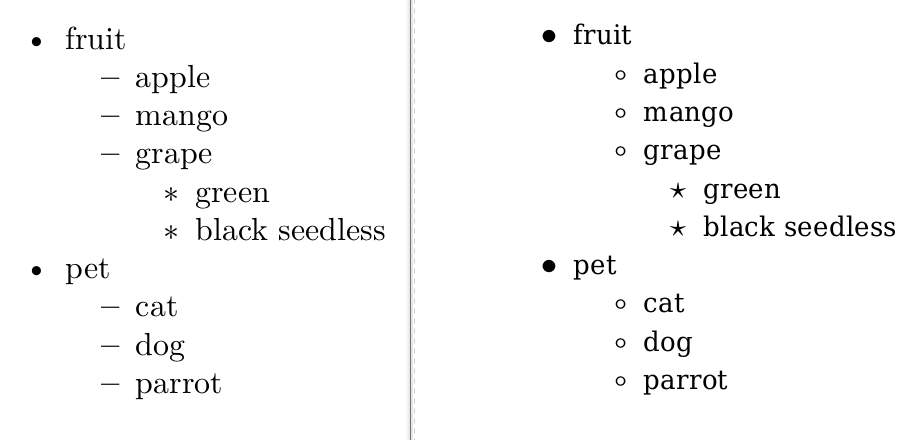
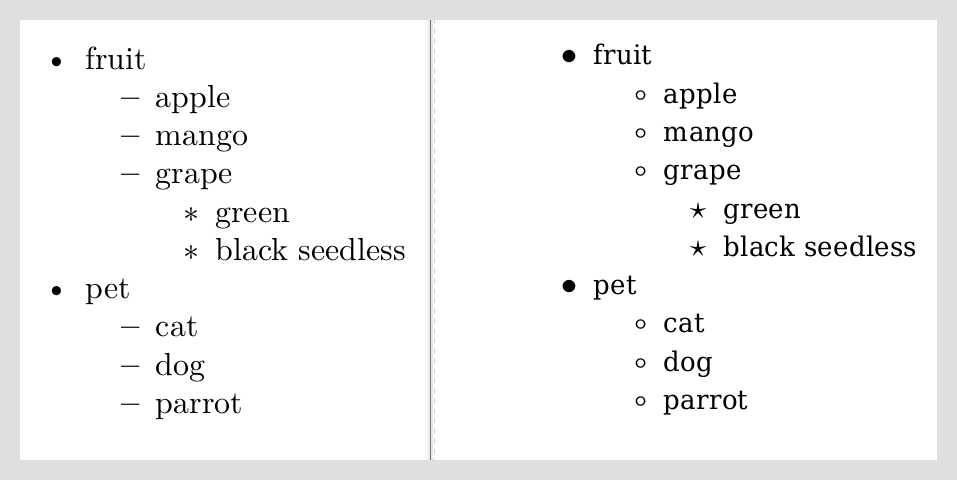
improved description and images

diff --git a/_posts/2019-03-11-customizing-pandoc.md b/_posts/2019-03-11-customizing-pandoc.md
@@ -11,7 +11,7 @@ tags:
 date: 2019-03-11T21:05:25
 ---
 
-Either you've already heard of `pandoc` or if you have searched online for `markdown` to `pdf` or similar, you are sure to come across `pandoc`. This tutorial will give you a basic idea of using `pandoc` to generate `pdf` from [GitHub style markdown](https://github.github.com/gfm/) file. The main purpose is to highlight what customizations I did to generate `pdf` for self-publishing my ebooks. It wasn't easy to arrive at the set-up I ended up with, so I hope this will be useful for those looking to use `pandoc` to generate `pdf`. Specifically aimed at technical books that has code snippets.
+Either you've already heard of `pandoc` or if you have searched online for `markdown` to `pdf` or similar, you are sure to come across `pandoc`. This tutorial will give you a basic idea of using `pandoc` to generate `pdf` from [GitHub style markdown](https://github.github.com/gfm/) file. The main purpose is to highlight what customizations I did to generate `pdf` for [self-publishing my ebooks](https://learnbyexample.github.io/books/). It wasn't easy to arrive at the set-up I ended up with, so I hope this will be useful for those looking to use `pandoc` to generate `pdf`. Specifically aimed at technical books that has code snippets.
 
 ## Installation
 
@@ -35,21 +35,21 @@ For more details and guide for other OS, refer to [pandoc: installation](https:/
 
 Once `pandoc` is working on your system, try generating a sample `pdf` without any customization.
 
-**Note**: See [learnbyexample.github.io repo](https://github.com/learnbyexample/learnbyexample.github.io/tree/master/files/pandoc_pdf) for all the input and output files referred in this tutorial
+![info](/images/info.svg) See [learnbyexample.github.io repo](https://github.com/learnbyexample/learnbyexample.github.io/tree/master/files/pandoc_pdf) for all the input and output files referred in this tutorial
 
 ```bash
 $ pandoc sample_1.md -f gfm -o sample_1.pdf
 ```
 
-Here `sample_1.md` is input markdown file and `-f` is used to specify that the input format is GitHub style markdown. The `-o` option specifies the output file type based on extension. The default output is probably good enough but has shortcomings like hyperlink and inline code are hard to distinguish, chapters are not separated, etc.
+Here `sample_1.md` is input markdown file and `-f` is used to specify that the input format is GitHub style markdown. The `-o` option specifies the output file type based on extension. The default output is probably good enough. But has shortcomings like hyperlinks and inline code are hard to distinguish, chapters are not separated, etc.
 
-`pandoc` has its own version of `markdown` as well with many useful extensions, see [pandoc: pandocs-markdown](https://pandoc.org/MANUAL.html#pandocs-markdown) for details.
+![info](/images/info.svg) `pandoc` has its own flavor of `markdown` with many useful extensions, see [pandoc: pandocs-markdown](https://pandoc.org/MANUAL.html#pandocs-markdown) for details. GitHub style markdown is recommended if you wish to use the same source (or with minor changes) in multiple places.
 
-**Note** that it is advised to use `markdown` headers in order without skipping - for example, `H1` for chapter heading and `H2` for chapter sub-section, etc is fine. `H1` for chapter heading and `H3` for sub-section is not. Using the former can give automatic index navigation on `pdf` readers.
+![info](/images/info.svg) It is advised to use `markdown` headers in order without skipping - for example, `H1` for chapter heading and `H2` for chapter sub-section, etc is fine. `H1` for chapter heading and `H3` for sub-section is not. Using the former can give automatic index navigation on `pdf` readers.
 
 On [Evince](https://wiki.gnome.org/Apps/Evince) reader, the index navigation for above sample looks like this:
 
-![Chapter Index](/images/pandoc_pdf/chapter_index.png)
+![Chapter Index]({{ '/images/pandoc_pdf/chapter_index.png' | absolute_url }}){: .align-center}
 
 ## Chapter breaks
 
@@ -70,7 +70,7 @@ This can be added using `-H` option. From `pandoc` manual,
 >files in the header.  They will be included in the  order  specified.
 >Implies --standalone.
 
-So, the `pandoc` invocation now looks like:
+The `pandoc` invocation now looks like:
 
 ```bash
 $ pandoc sample_1.md -f gfm -H chapter_break.tex -o sample_1_chapter_break.pdf
@@ -110,20 +110,24 @@ pandoc "$1" \
 
 Using `xelatex` as the `pdf-engine` allows to use any font installed in the system. One reason I chose `DejaVu` was because it supported **Greek** and other Unicode characters that were causing error with other fonts. See [tex.stackexchange: Using XeLaTeX instead of pdfLaTeX](https://tex.stackexchange.com/questions/21736/using-xelatex-instead-of-pdflatex) for some more details.
 
+The `pandoc` invocation is now through a script:
+
 ```bash
 $ chmod +x md2pdf.sh
 $ ./md2pdf.sh sample_1.md sample_1_settings.pdf
 ```
 
+Do compare the pdf generated side by side with previous output before proceeding.
+
 ## Syntax highlighting
 
-One option to customize syntax highlighting for code snippets is to save one of the `pandoc` themes and editing it. See [stackoverflow: What are the available syntax highlighters?](https://stackoverflow.com/questions/30880200/pandoc-what-are-the-available-syntax-highlighters/47876166#47876166) for available themes and more details (go through other answers as well).
+One option to customize syntax highlighting for code snippets is to save one of the `pandoc` themes and editing it. See [stackoverflow: What are the available syntax highlighters?](https://stackoverflow.com/questions/30880200/pandoc-what-are-the-available-syntax-highlighters/47876166#47876166) for available themes and more details (as a good practice on stackoverflow, go through all answers and comments - the linked/related sections on sidebar are useful as well).
 
 ```bash
 $ pandoc --print-highlight-style=pygments > pygments.theme
 ```
 
-Change theme settings using a text editor ([colorhexa](https://www.colorhexa.com/) is a good site to choose colors). For this demo, the below settings are changed:
+Edit the above file to customize the theme. Use sites like [colorhexa](https://www.colorhexa.com/) to help with color choices, hex values, etc. For this demo, the below settings are changed:
 
 ```
 # by default, background is same as normal text
@@ -131,7 +135,7 @@ Change theme settings using a text editor ([colorhexa](https://www.colorhexa.com
 "background-color": "#f8f8f8",
 
 # change italic to false, messes up comments with slashes
-# change text-color to another shade of gray
+# change comment text-color to yet another shade of gray
 "Comment": {
     "text-color": "#9c9c9c",
     "background-color": null,
@@ -160,17 +164,17 @@ Add `--highlight-style pygments.theme` and `--include-in-header inline_code.tex`
 
 With `pandoc sample_2.md -f gfm -o sample_2.pdf` the output would be:
 
-![Default syntax highlighting](/images/pandoc_pdf/default_syn.png)
+![Default syntax highlighting]({{ '/images/pandoc_pdf/default_syn.png' | absolute_url }}){: .align-center}
 
 With `./md2pdf_syn.sh sample_2.md sample_2_syn.pdf` the output is:
 
-![Customized syntax highlighting](/images/pandoc_pdf/customized_syn.png)
+![Customized syntax highlighting]({{ '/images/pandoc_pdf/customized_syn.png' | absolute_url }}){: .align-center}
 
 <br>
 
-For my [Python re(gex)?](https://github.com/learnbyexample/py_regular_expressions) book, by chance I found that using `ruby` instead of `python` for REPL code snippets syntax highlighting was better. As seen from `./md2pdf_syn.sh sample_3.md sample_3.pdf` result, for `python` directive, string output gets treated as a comment and color for boolean values isn't easy to distinguish from string values.
+For my [Python re(gex)?](https://github.com/learnbyexample/py_regular_expressions) book, by chance I found that using `ruby` instead of `python` for REPL code snippets syntax highlighting was better. Snapshot from `./md2pdf_syn.sh sample_3.md sample_3.pdf` result is shown below. For `python` directive, string output gets treated as a comment and color for boolean values isn't easy to distinguish from string values. The `ruby` directive treats string value as expected and boolean values are easier to spot.
 
-![REPL syntax highlighting](/images/pandoc_pdf/python_vs_ruby_syn.png)
+![REPL syntax highlighting]({{ '/images/pandoc_pdf/python_vs_ruby_syn.png' | absolute_url }}){: .align-center}
 
 ## Bullet styling
 
@@ -188,9 +192,9 @@ This [stackoverflow Q&A](https://stackoverflow.com/questions/22156999/how-to-cha
 \setlist[itemize,3]{label=$\star$}
 ```
 
-`pandoc sample_4.md -f gfm -o sample_4.pdf` vs `./md2pdf_syn_bullet.sh sample_4.md sample_4_bullet.pdf` gives:
+Comparing `pandoc sample_4.md -f gfm -o sample_4.pdf` vs `./md2pdf_syn_bullet.sh sample_4.md sample_4_bullet.pdf` gives:
 
-![Bullet styling](/images/pandoc_pdf/bullet_styling.png)
+![Bullet styling]({{ '/images/pandoc_pdf/bullet_styling.png' | absolute_url }}){: .align-center}
 
 ## PDF properties
 
@@ -209,7 +213,7 @@ This [tex.stackexchange Q&A](https://tex.stackexchange.com/questions/23235/elimi
 
 `./md2pdf_syn_bullet_prop.sh sample_4.md sample_4_bullet_prop.pdf` gives:
 
-![PDF properties](/images/pandoc_pdf/pdf_properties.png)
+![PDF properties]({{ '/images/pandoc_pdf/pdf_properties.png' | absolute_url }}){: .align-center}
 
 ## Resource links
 
@@ -219,8 +223,9 @@ This [tex.stackexchange Q&A](https://tex.stackexchange.com/questions/23235/elimi
 * [tex.stackexchange: How to change the background color and border of a blockquote?](https://tex.stackexchange.com/questions/154528/how-to-change-the-background-color-and-border-of-a-pandoc-generated-blockquote)
 * [tex.stackexchange: Change section fonts](https://tex.stackexchange.com/questions/10138/change-section-fonts)
 
-**Other ebook creation tools**:
+**More options for generating ebooks**:
 
+* [pandoc-latex-template](https://github.com/Wandmalfarbe/pandoc-latex-template) - a clean pandoc LaTeX template to convert your markdown files to PDF or LaTeX
 * [Asciidoctor](https://asciidoctor.org/docs/what-is-asciidoc/)
 * [Sphinx](https://www.sphinx-doc.org/en/stable/index.html)
     * [Self-publishing a book with reStructuredText, Sphinx, Calibre, and vim](https://digitalsuperpowers.com/blog/2019-02-16-publishing-ebook.html)
